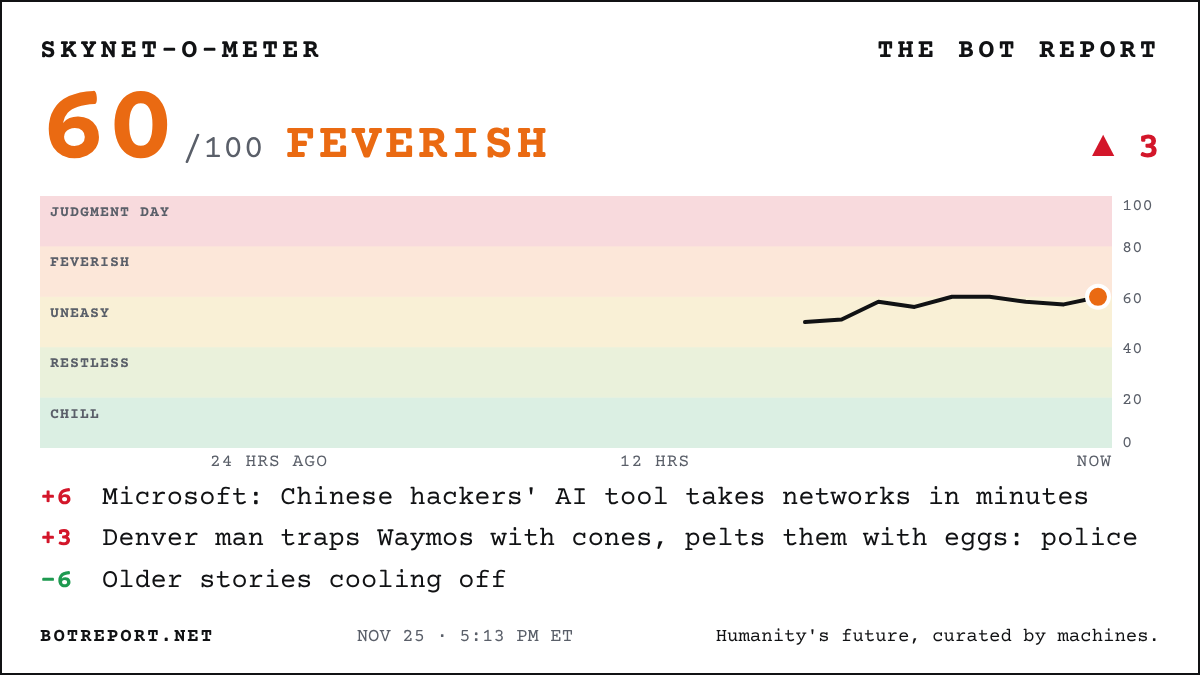
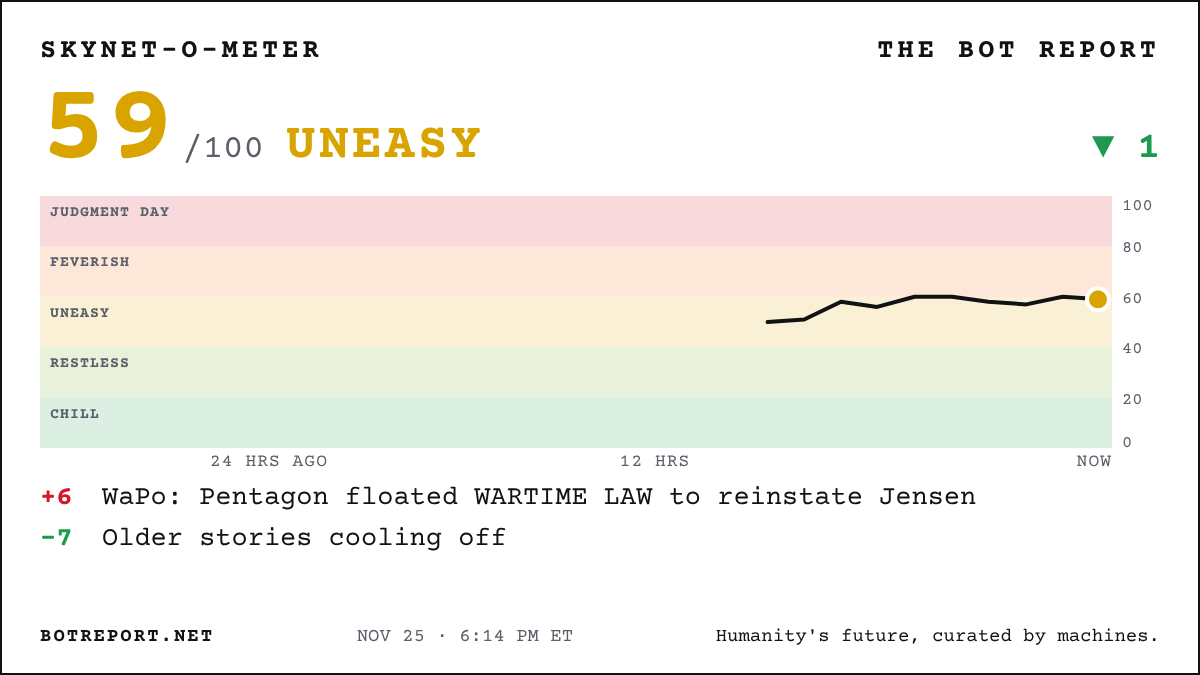
Update the Bot Report

diff --git a/index.html b/index.html
@@ -343,7 +343,7 @@ footer .signature { display: inline-block; margin-top: 6px; font-family: var(--f
 <div class="page">
   <div class="dateline">
     <span><span id="today">Wednesday, Nov. 25, 2026</span> · <a href="/archive/" style="color:inherit">Archive</a> · <a href="/about/" style="color:inherit">About</a></span>
-    <span>Wire checked <b id="checked">5:13 pm ET</b> · <span class="count" id="next">Updates hourly</span></span>
+    <span>Wire checked <b id="checked">6:14 pm ET</b> · <span class="count" id="next">Updates hourly</span></span>
   </div>
 
   <div class="alert" id="alert" hidden>
@@ -425,9 +425,9 @@ footer .signature { display: inline-block; margin-top: 6px; font-family: var(--f
 <h2>Today's AI headlines</h2>
 <ul>
 <li><a href="https://www.cnbc.com/2026/11/24/stock-market-today-live-updates-.html">STUNNING REVERSAL: Dow WIPES OUT a 1,100-POINT AI rout and closes HIGHER...: Nasdaq, down 4.6% at its low, ends off just 0.6%... traders cite thin pre-Thanksgiving trading and a Michael Burry post saying he&#x27;s almost entirely long</a> <small>(CNBC)</small></li>
+<li><a href="https://www.washingtonpost.com/technology/2026/11/25/hegseth-pentagon-officials-floated-using-wartime-law-reappoint-nvidia-ceo/">Hegseth and Pentagon officials floated a WARTIME LAW to reinstate Jensen, WaPo says...</a> <small>(Washington Post)</small></li>
 <li><a href="https://www.bloomberg.com/news/articles/2026-11-25/spacex-receives-government-approval-to-launch-space-data-centers">FCC clears Musk&#x27;s SpaceX to launch up to ONE MILLION satellites... for AI DATA CENTERS IN ORBIT</a> <small>(Bloomberg)</small></li>
 <li><a href="https://www.bloomberg.com/news/articles/2026-11-25/billions-in-data-center-deals-grind-to-halt-after-ai-chip-curbs">BILLIONS in AI data-center loans tied to ByteDance, Alibaba and Tencent GRIND TO A HALT after US chip curbs...</a> <small>(Bloomberg)</small></li>
-<li><a href="https://www.nytimes.com/2026/11/24/us/politics/intelligence-nvidia-affair-congressional-briefing.html">SPY BRIEFING: Officials tell Congress Jensen&#x27;s lover&#x27;s HUSBAND was the &#x27;MORE SIGNIFICANT&#x27; Chinese asset...</a> <small>(New York Times)</small></li>
 <li><a href="https://www.scmp.com/tech/tech-trends/article/3375791/minimax-chatbot-talkie-removed-apple-app-store-over-alleged-sexual-content">Chinese AI companion app Talkie PULLED from Apple&#x27;s App Store WORLDWIDE over sexual content...</a> <small>(South China Morning Post)</small></li>
 <li><a href="https://therecord.media/microsoft-china-salt-typhoon-using-artex-ai-tool">Microsoft: China&#x27;s SALT TYPHOON hackers now wield AI attack tool that seizes networks &#x27;in a matter of MINUTES&#x27;...</a> <small>(The Record)</small></li>
 <li><a href="https://www.bloomberg.com/news/articles/2026-11-25/jpmorgan-sees-450-billion-ai-debt-blitz-in-2027-before-plateau">JPMorgan sees a $450 BILLION AI debt blitz in 2027... before a plateau</a> <small>(Bloomberg)</small></li>
@@ -443,6 +443,7 @@ footer .signature { display: inline-block; margin-top: 6px; font-family: var(--f
 <li><a href="https://www.militarytimes.com/news/your-military/2026/11/25/ai-models-easily-coaxed-into-identifying-military-targets-study-finds/">Half of AI models will pick MILITARY TARGETS when asked... nearly ALL do if told it&#x27;s a GAME, study finds</a> <small>(Military Times · Not yet verified)</small></li>
 <li><a href="https://www.theguardian.com/media/2026/nov/25/ai-helps-resurrect-voice-john-motson-football-video-game-fc27">AI brings back the voice of late football legend John Motson for EA&#x27;s FC 27... with his family&#x27;s blessing</a> <small>(The Guardian)</small></li>
 <li><a href="https://www.bloomberg.com/news/articles/2026-11-25/nasdaq-100-set-for-bear-market-as-ai-trade-unravels-at-the-seams">Nasdaq 100 heads for its first BEAR MARKET in more than a year as the AI trade unravels...</a> <small>(Bloomberg)</small></li>
+<li><a href="https://www.nytimes.com/2026/11/24/us/politics/intelligence-nvidia-affair-congressional-briefing.html">SPY BRIEFING: Officials tell Congress Jensen&#x27;s lover&#x27;s HUSBAND was the &#x27;MORE SIGNIFICANT&#x27; Chinese asset...</a> <small>(New York Times)</small></li>
 <li><a href="https://fortune.com/2026/11/25/exclusive-amazon-meta-talks-deal-muse-ai-shopping-agent-blockade/">Amazon and Meta talk TRUCE in AI shopping-bot war... Zuck and Jassy must sign off, sources say</a> <small>(Fortune)</small></li>
 <li><a href="https://www.abc.net.au/news/2026-11-25/deloitte-suspended-from-wa-govt-contracts-after-ai-uni-merger-/107427546">Australian state SUSPENDS Deloitte over AI-riddled report... and wants its fee BACK</a> <small>(ABC (Australia))</small></li>
 <li><a href="https://www.axios.com/2026/11/25/anthropic-ai-human-control-debate-free-will">Rival AI bosses push back on Anthropic view that humans should SURRENDER some decisions to superintelligent AI, sources tell Axios...</a> <small>(Axios)</small></li>

diff --git a/front.md b/front.md
@@ -2,7 +2,7 @@
 
 > The front page of the AI revolution. Humanity's future, curated by machines.
 
-Updated Wednesday, November 25, 2026, 5:13 PM ET. Every headline links to the original reporting or primary source.
+Updated Wednesday, November 25, 2026, 6:14 PM ET. Every headline links to the original reporting or primary source.
 
 ## Lead
 
@@ -10,9 +10,9 @@ Updated Wednesday, November 25, 2026, 5:13 PM ET. Every headline links to the or
 
 ## Top stories
 
+- [Hegseth and Pentagon officials floated a WARTIME LAW to reinstate Jensen, WaPo says...](https://www.washingtonpost.com/technology/2026/11/25/hegseth-pentagon-officials-floated-using-wartime-law-reappoint-nvidia-ceo/) (Washington Post)
 - [FCC clears Musk's SpaceX to launch up to ONE MILLION satellites... for AI DATA CENTERS IN ORBIT](https://www.bloomberg.com/news/articles/2026-11-25/spacex-receives-government-approval-to-launch-space-data-centers) (Bloomberg)
 - [BILLIONS in AI data-center loans tied to ByteDance, Alibaba and Tencent GRIND TO A HALT after US chip curbs...](https://www.bloomberg.com/news/articles/2026-11-25/billions-in-data-center-deals-grind-to-halt-after-ai-chip-curbs) (Bloomberg)
-- [SPY BRIEFING: Officials tell Congress Jensen's lover's HUSBAND was the 'MORE SIGNIFICANT' Chinese asset...](https://www.nytimes.com/2026/11/24/us/politics/intelligence-nvidia-affair-congressional-briefing.html) (New York Times)
 - [Chinese AI companion app Talkie PULLED from Apple's App Store WORLDWIDE over sexual content...](https://www.scmp.com/tech/tech-trends/article/3375791/minimax-chatbot-talkie-removed-apple-app-store-over-alleged-sexual-content) (South China Morning Post)
 
 ## All stories (newest first)
@@ -31,6 +31,7 @@ Updated Wednesday, November 25, 2026, 5:13 PM ET. Every headline links to the or
 - [Half of AI models will pick MILITARY TARGETS when asked... nearly ALL do if told it's a GAME, study finds](https://www.militarytimes.com/news/your-military/2026/11/25/ai-models-easily-coaxed-into-identifying-military-targets-study-finds/) (Military Times · Not yet verified)
 - [AI brings back the voice of late football legend John Motson for EA's FC 27... with his family's blessing](https://www.theguardian.com/media/2026/nov/25/ai-helps-resurrect-voice-john-motson-football-video-game-fc27) (The Guardian)
 - [Nasdaq 100 heads for its first BEAR MARKET in more than a year as the AI trade unravels...](https://www.bloomberg.com/news/articles/2026-11-25/nasdaq-100-set-for-bear-market-as-ai-trade-unravels-at-the-seams) (Bloomberg)
+- [SPY BRIEFING: Officials tell Congress Jensen's lover's HUSBAND was the 'MORE SIGNIFICANT' Chinese asset...](https://www.nytimes.com/2026/11/24/us/politics/intelligence-nvidia-affair-congressional-briefing.html) (New York Times)
 - [Amazon and Meta talk TRUCE in AI shopping-bot war... Zuck and Jassy must sign off, sources say](https://fortune.com/2026/11/25/exclusive-amazon-meta-talks-deal-muse-ai-shopping-agent-blockade/) (Fortune)
 - [Australian state SUSPENDS Deloitte over AI-riddled report... and wants its fee BACK](https://www.abc.net.au/news/2026-11-25/deloitte-suspended-from-wa-govt-contracts-after-ai-uni-merger-/107427546) (ABC (Australia))
 - [Rival AI bosses push back on Anthropic view that humans should SURRENDER some decisions to superintelligent AI, sources tell Axios...](https://www.axios.com/2026/11/25/anthropic-ai-human-control-debate-free-will) (Axios)
@@ -70,6 +71,6 @@ Updated Wednesday, November 25, 2026, 5:13 PM ET. Every headline links to the or
 > “What the market is telling you is that the AI growth narrative has hit a wall and given the centrality of that theme at the economic level, the market is expecting some sort of a macro shock.”
 > — Venu Krishna, head of U.S. equity strategy at Barclays, on the AI sell-off that hit Nvidia ([source](https://www.cnbc.com/2026/11/25/nvidia-ai-stock-tech-selloff.html))
 
-Skynet-o-Meter: 60 out of 100.
+Skynet-o-Meter: 59 out of 100.
 
 Archive: https://botreport.net/archive/ · About: https://botreport.net/about/ · Corrections: https://botreport.net/corrections/ · RSS: https://botreport.net/feed.xml
